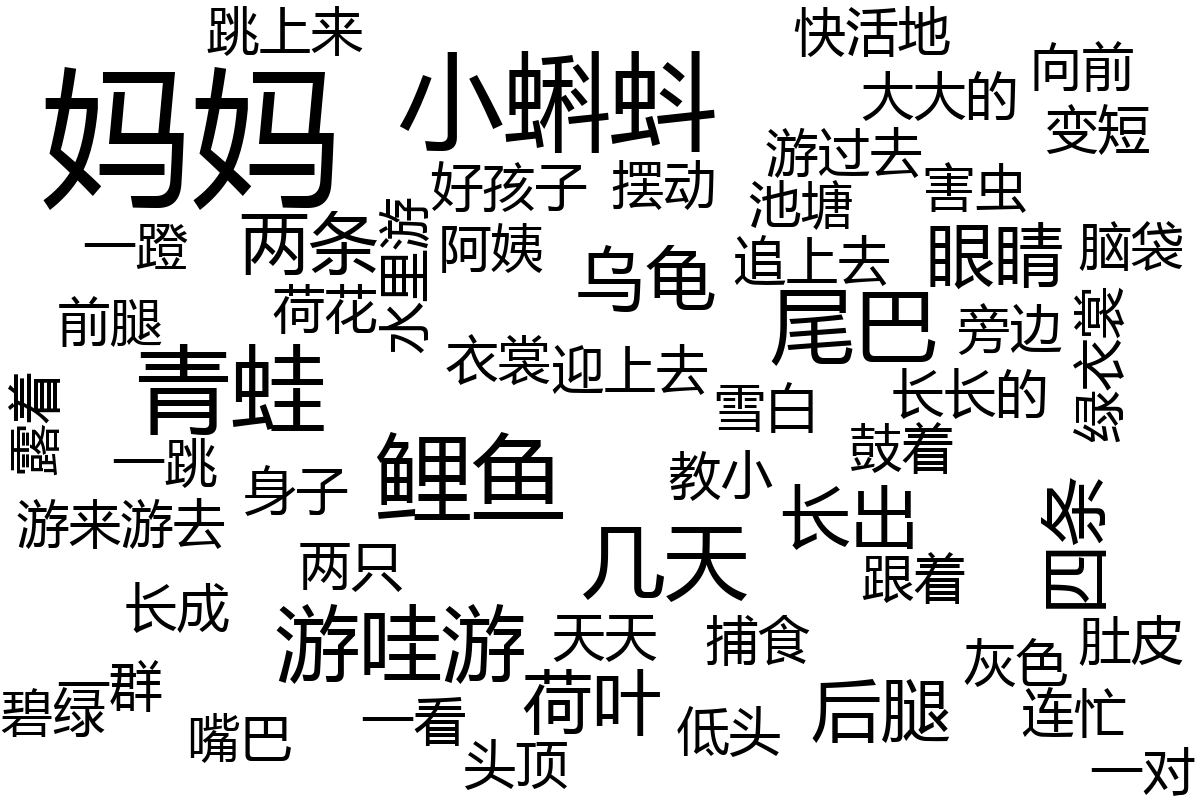
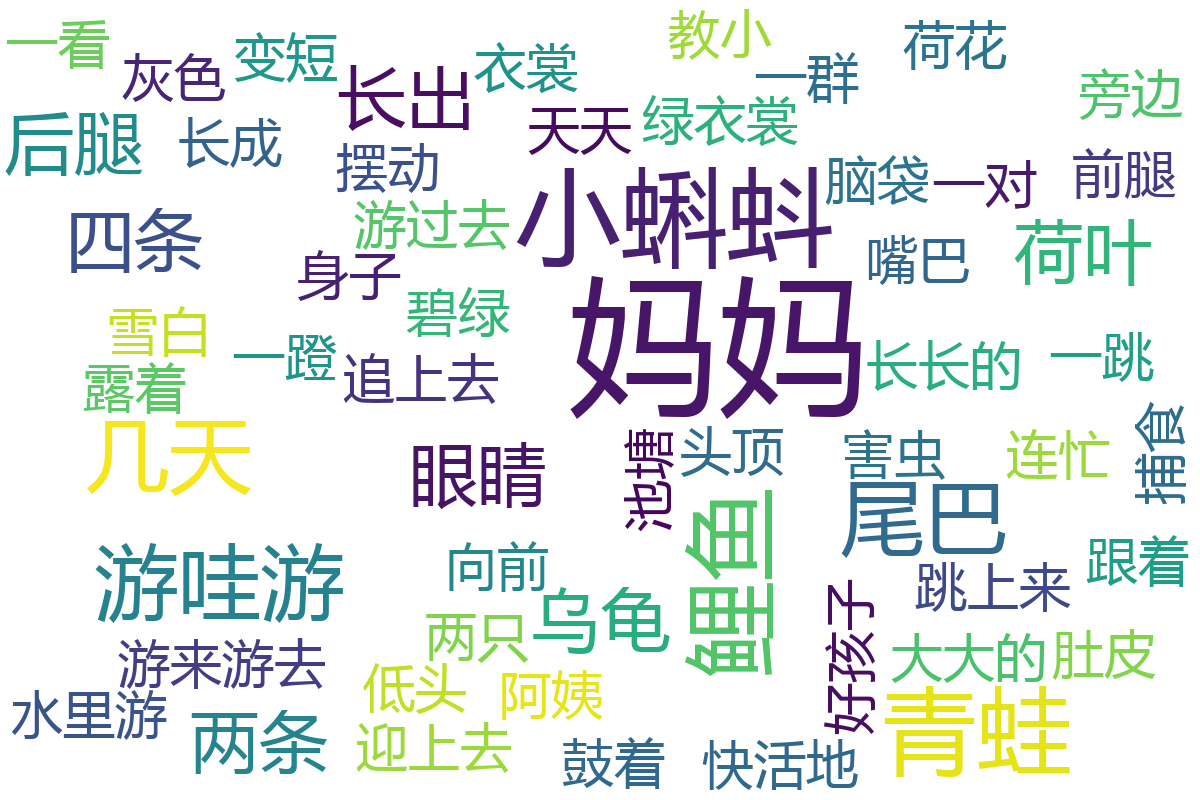
update demo

diff --git a/plotWordcloud.py b/plotWordcloud.py
@@ -16,7 +16,7 @@ def generate_wordcloud(text):
     font_path=path.join(d,"font//msyh.ttf")
     wc = WordCloud(
         background_color="white",# 设置背景颜色  "silver"
-        color_func=lambda *args, **kwargs: "black" , # 设置字体颜色 
+        #color_func=lambda *args, **kwargs: "black" , # 设置字体颜色 
            max_words=300, # 词云显示的最大词数  
             width=1200,  # 宽度
             height=800,   # 高度

diff --git a/demo.py b/demo.py
@@ -9,9 +9,7 @@ if __name__=='__main__':
 
     # 读取文件
     d = path.dirname(__file__)
-    #  text = open(path.join(d, 'doc//十九大报告全文.txt')).read()
     text = open(path.join(d,'doc//alice.txt')).read()
-    #  text="付求爱很帅并来到付求爱了网易研行大厦很帅 很帅 很帅"
 
     # 若是中文文本，则先进行分词操作
     text=chnSegment.word_segment(text)
